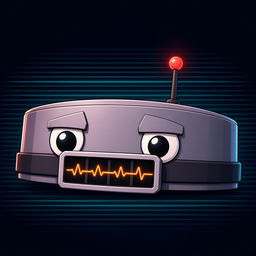
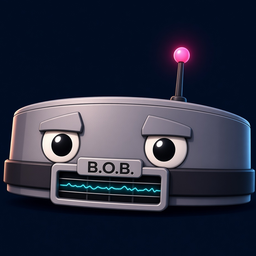
feat(bob): planche GenAI dialogue + onde
Portrait GenAI validé par Leny : planche 4 × 2 @256 au cadrage bust de
SYLVIE, écran-grille vidé de l'onde peinte (la bouche est l'onde
procédurale), paupières et LED d'antenne qui varient ; bob-ref.png = cellule
neutre avec l'onde peinte. B.O.B. rejoint GENAI_SHEETS (plus de bake).

PORTRAIT_WAVES.bob : x 60 → 158, y 186, amp 7 (cellule 256), cyan Bender
#5ff6ff, ligne quasi plate au repos. PortraitWave gagne color / core / rest
optionnels ; SYLVIE inchangée.

Changed region(s): [[0.0, 0.125, 1.0, 0.8438]]

diff --git a/src/ui/WaveMouth.ts b/src/ui/WaveMouth.ts
@@ -1,4 +1,4 @@
-// Bouche-onde procédurale d'un portrait-planche (SYLVIE) : une polyligne cyan
+// Bouche-onde procédurale d'un portrait-planche (SYLVIE, B.O.B.) : une polyligne cyan
 // lumineuse dessinée par-dessus la planche (PORTRAIT_WAVES dans Studio.ts),
 // façon B.O.B. / Bender. Au repos, un signal plat qui ondule à peine ; quand
 // le personnage parle, des amplitudes qui bougent. L'humeur change le tracé.
@@ -63,7 +63,8 @@ export class WaveMouth {
     const t = this.t * f.speed;
     // enveloppe de parole : syllabes (deux sinus décalés) + un peu de bruit
     const speech = this.level * (0.35 + 0.65 * Math.abs(Math.sin(t * 7.3) * Math.sin(t * 3.1 + 1.3))) * (0.85 + Math.random() * 0.15);
-    const rest = 0.09 + 0.04 * Math.sin(t * 1.7);
+    const r0 = this.def.rest ?? 0.09;
+    const rest = r0 * (1 + (4 / 9) * Math.sin(t * 1.7));
     const a = Math.max(rest, speech) * amp;
     const pts: Phaser.Math.Vector2[] = [];
     for (let i = 0; i <= POINTS; i++) {
@@ -81,15 +82,17 @@ export class WaveMouth {
     }
     const g = this.g;
     const k = this.k;
+    const glow = this.def.color ?? CYAN;
+    const core = this.def.core ?? CORE;
     g.clear();
     // halo, lueur, cœur
-    g.lineStyle(9 * k, CYAN, 0.12);
+    g.lineStyle(9 * k, glow, 0.12);
     g.strokePoints(pts);
-    g.lineStyle(5 * k, CYAN, 0.3);
+    g.lineStyle(5 * k, glow, 0.3);
     g.strokePoints(pts);
-    g.lineStyle(2.4 * k, CYAN, 0.95);
+    g.lineStyle(2.4 * k, glow, 0.95);
     g.strokePoints(pts);
-    g.lineStyle(1 * k, CORE, 0.9);
+    g.lineStyle(1 * k, core, 0.9);
     g.strokePoints(pts);
   }
 }

diff --git a/src/three/Studio.ts b/src/three/Studio.ts
@@ -149,7 +149,7 @@ export const PORTRAIT_IDS = Object.keys(PORTRAITS);
  * Planches GenAI (docs/PORTRAIT_GENAI.md) : jamais rebakées, ni par
  * `bake:portraits` ni au runtime — le 3D suit l'image, pas l'inverse.
  */
-export const GENAI_SHEETS: ReadonlySet<string> = new Set(['gary', 'sylvie']);
+export const GENAI_SHEETS: ReadonlySet<string> = new Set(['gary', 'sylvie', 'bob']);
 
 function makeRenderer(): THREE.WebGLRenderer {
   const renderer = new THREE.WebGLRenderer({ antialias: true, alpha: true, preserveDrawingBuffer: true });
@@ -398,10 +398,18 @@ export interface PortraitWave {
   x1: number;
   y: number;
   amp: number;
+  /** Teinte de la lueur et du cœur (défaut : aquamarine SYLVIE). */
+  color?: number;
+  core?: number;
+  /** Amplitude au repos, en fraction de `amp` (défaut 0.09 : ondule à peine). */
+  rest?: number;
 }
 
 export const PORTRAIT_WAVES: Readonly<Record<string, PortraitWave>> = {
   sylvie: { cell: 256, x0: 62, x1: 188, y: 161, amp: 13 },
+  // B.O.B. : écran-grille de la bouche (entre les deux barres), cyan Bender,
+  // ligne quasi plate au repos
+  bob: { cell: 256, x0: 60, x1: 158, y: 186, amp: 7, color: 0x5ff6ff, core: 0xe6feff, rest: 0.04 },
 };
 
 function shootSingle(renderer: THREE.WebGLRenderer, pose: Pose, size: number, bg?: [string, string]): HTMLCanvasElement {
